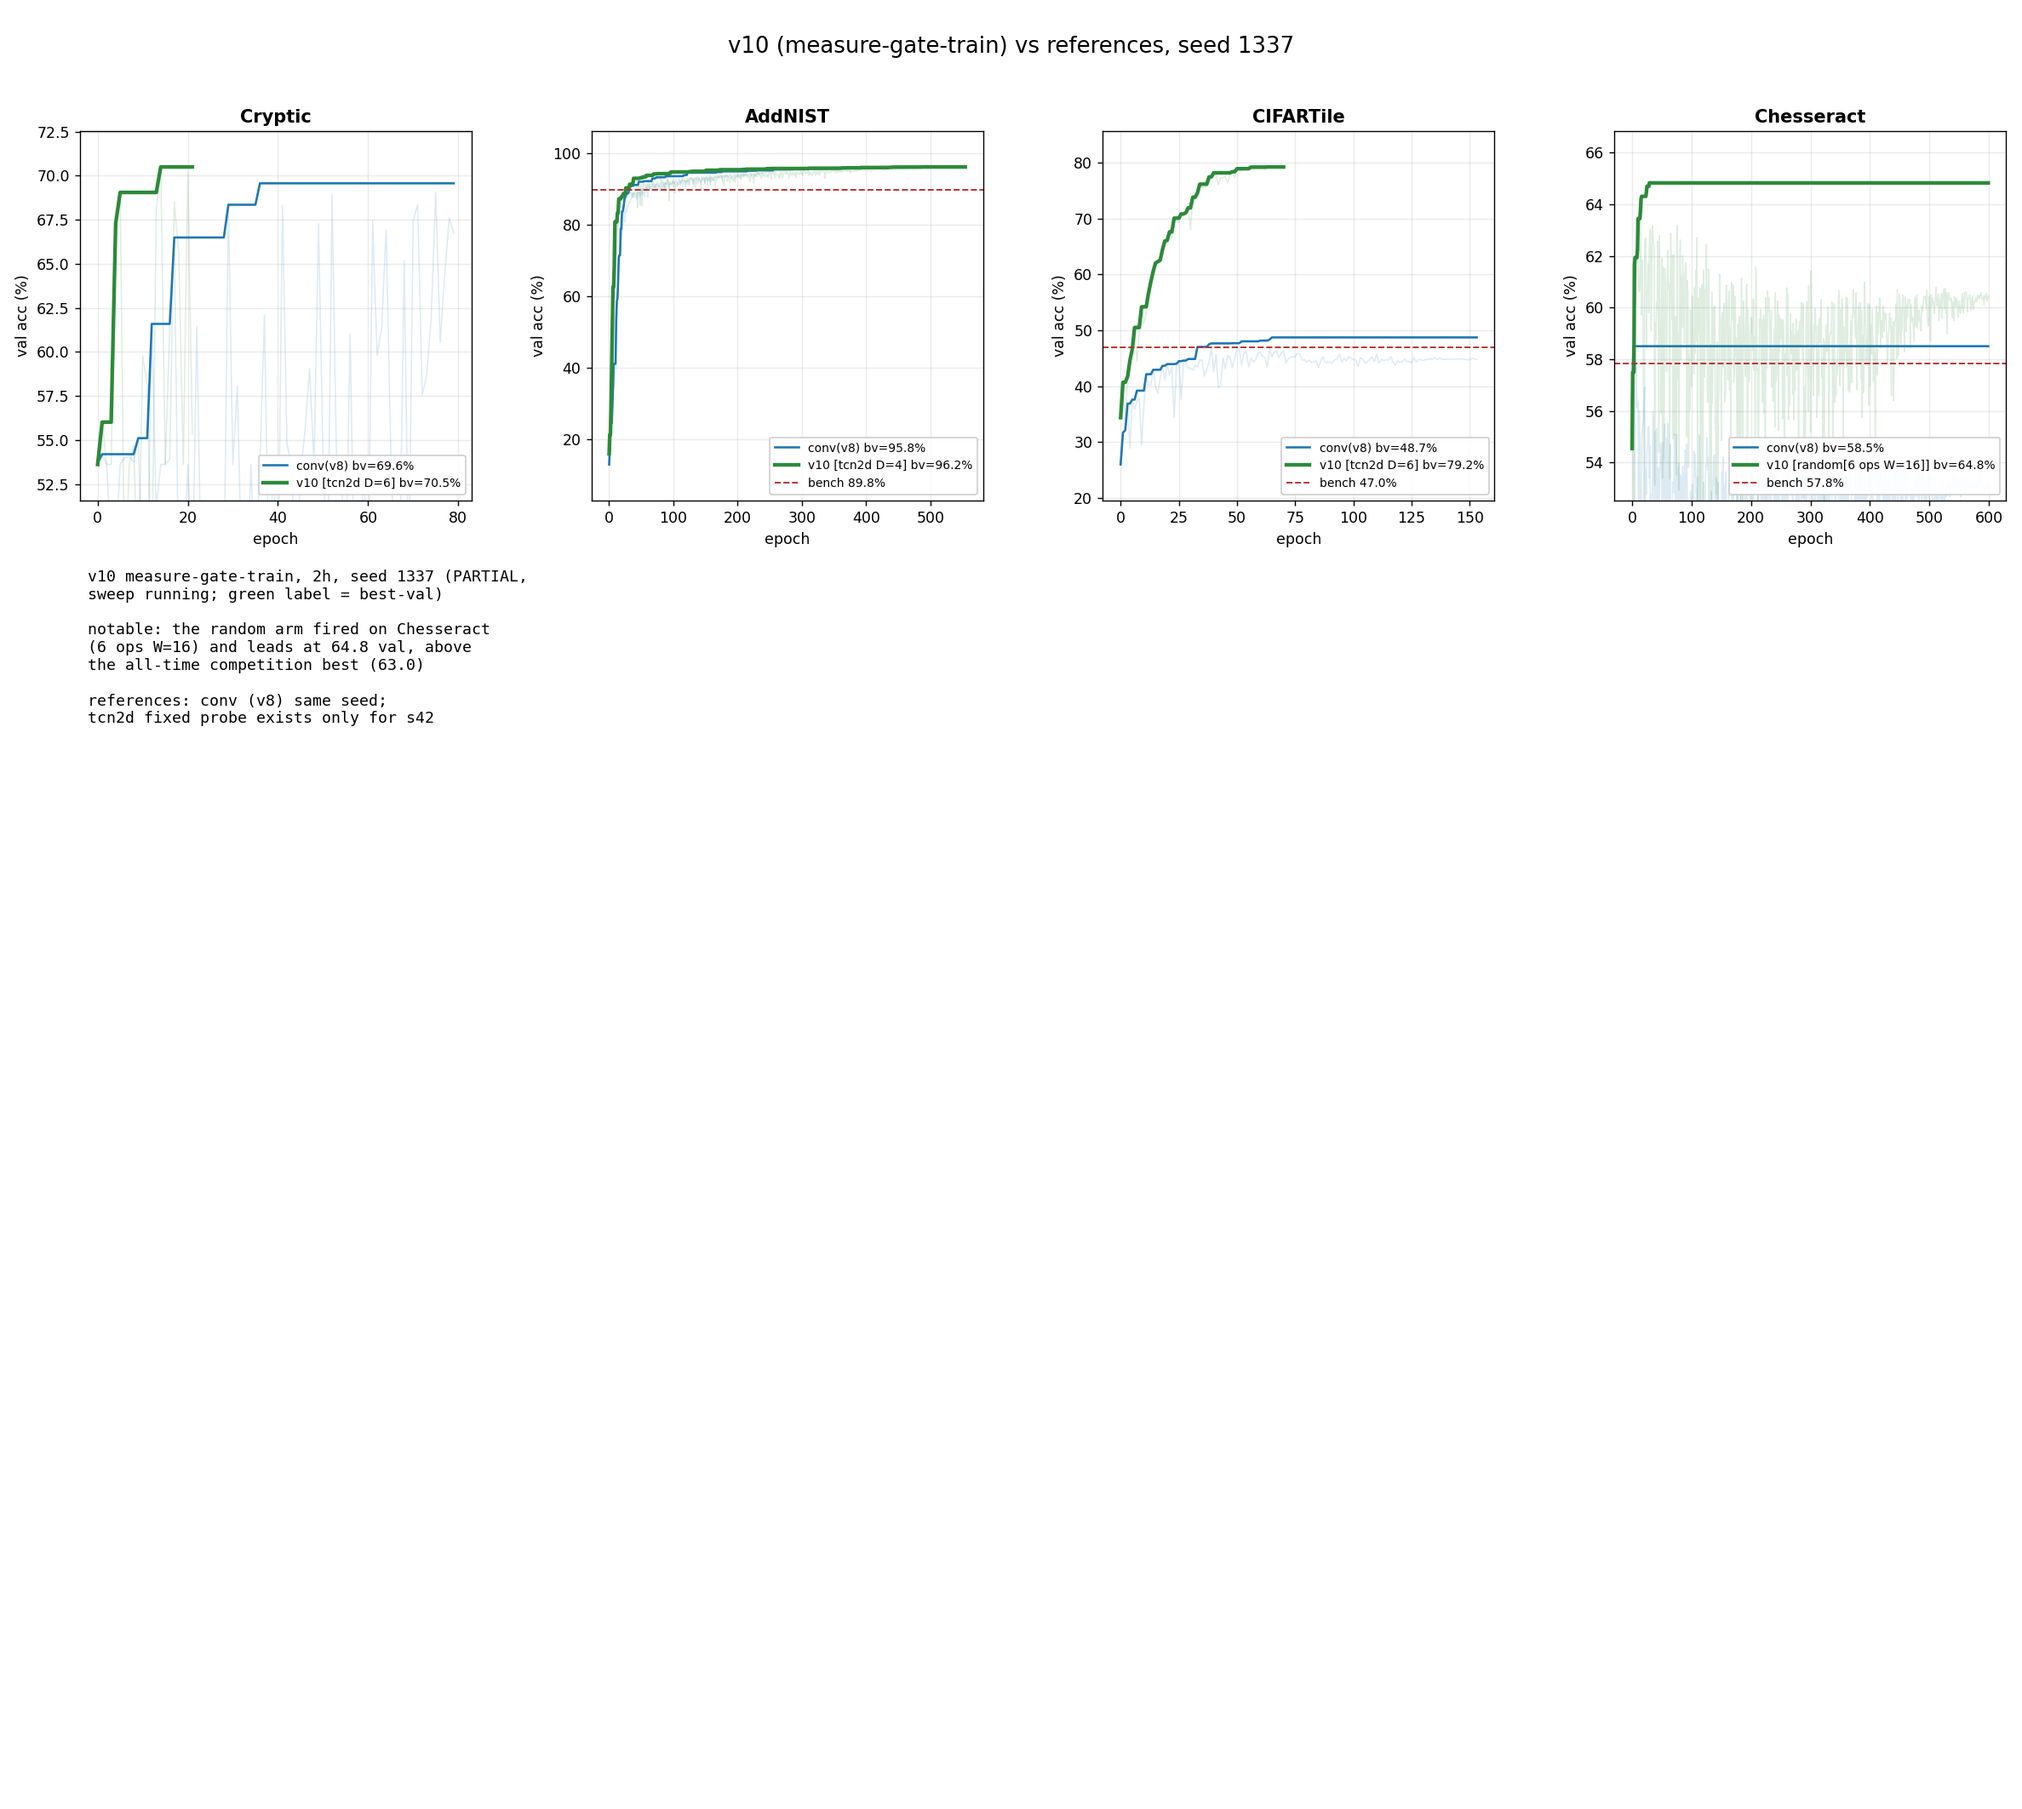
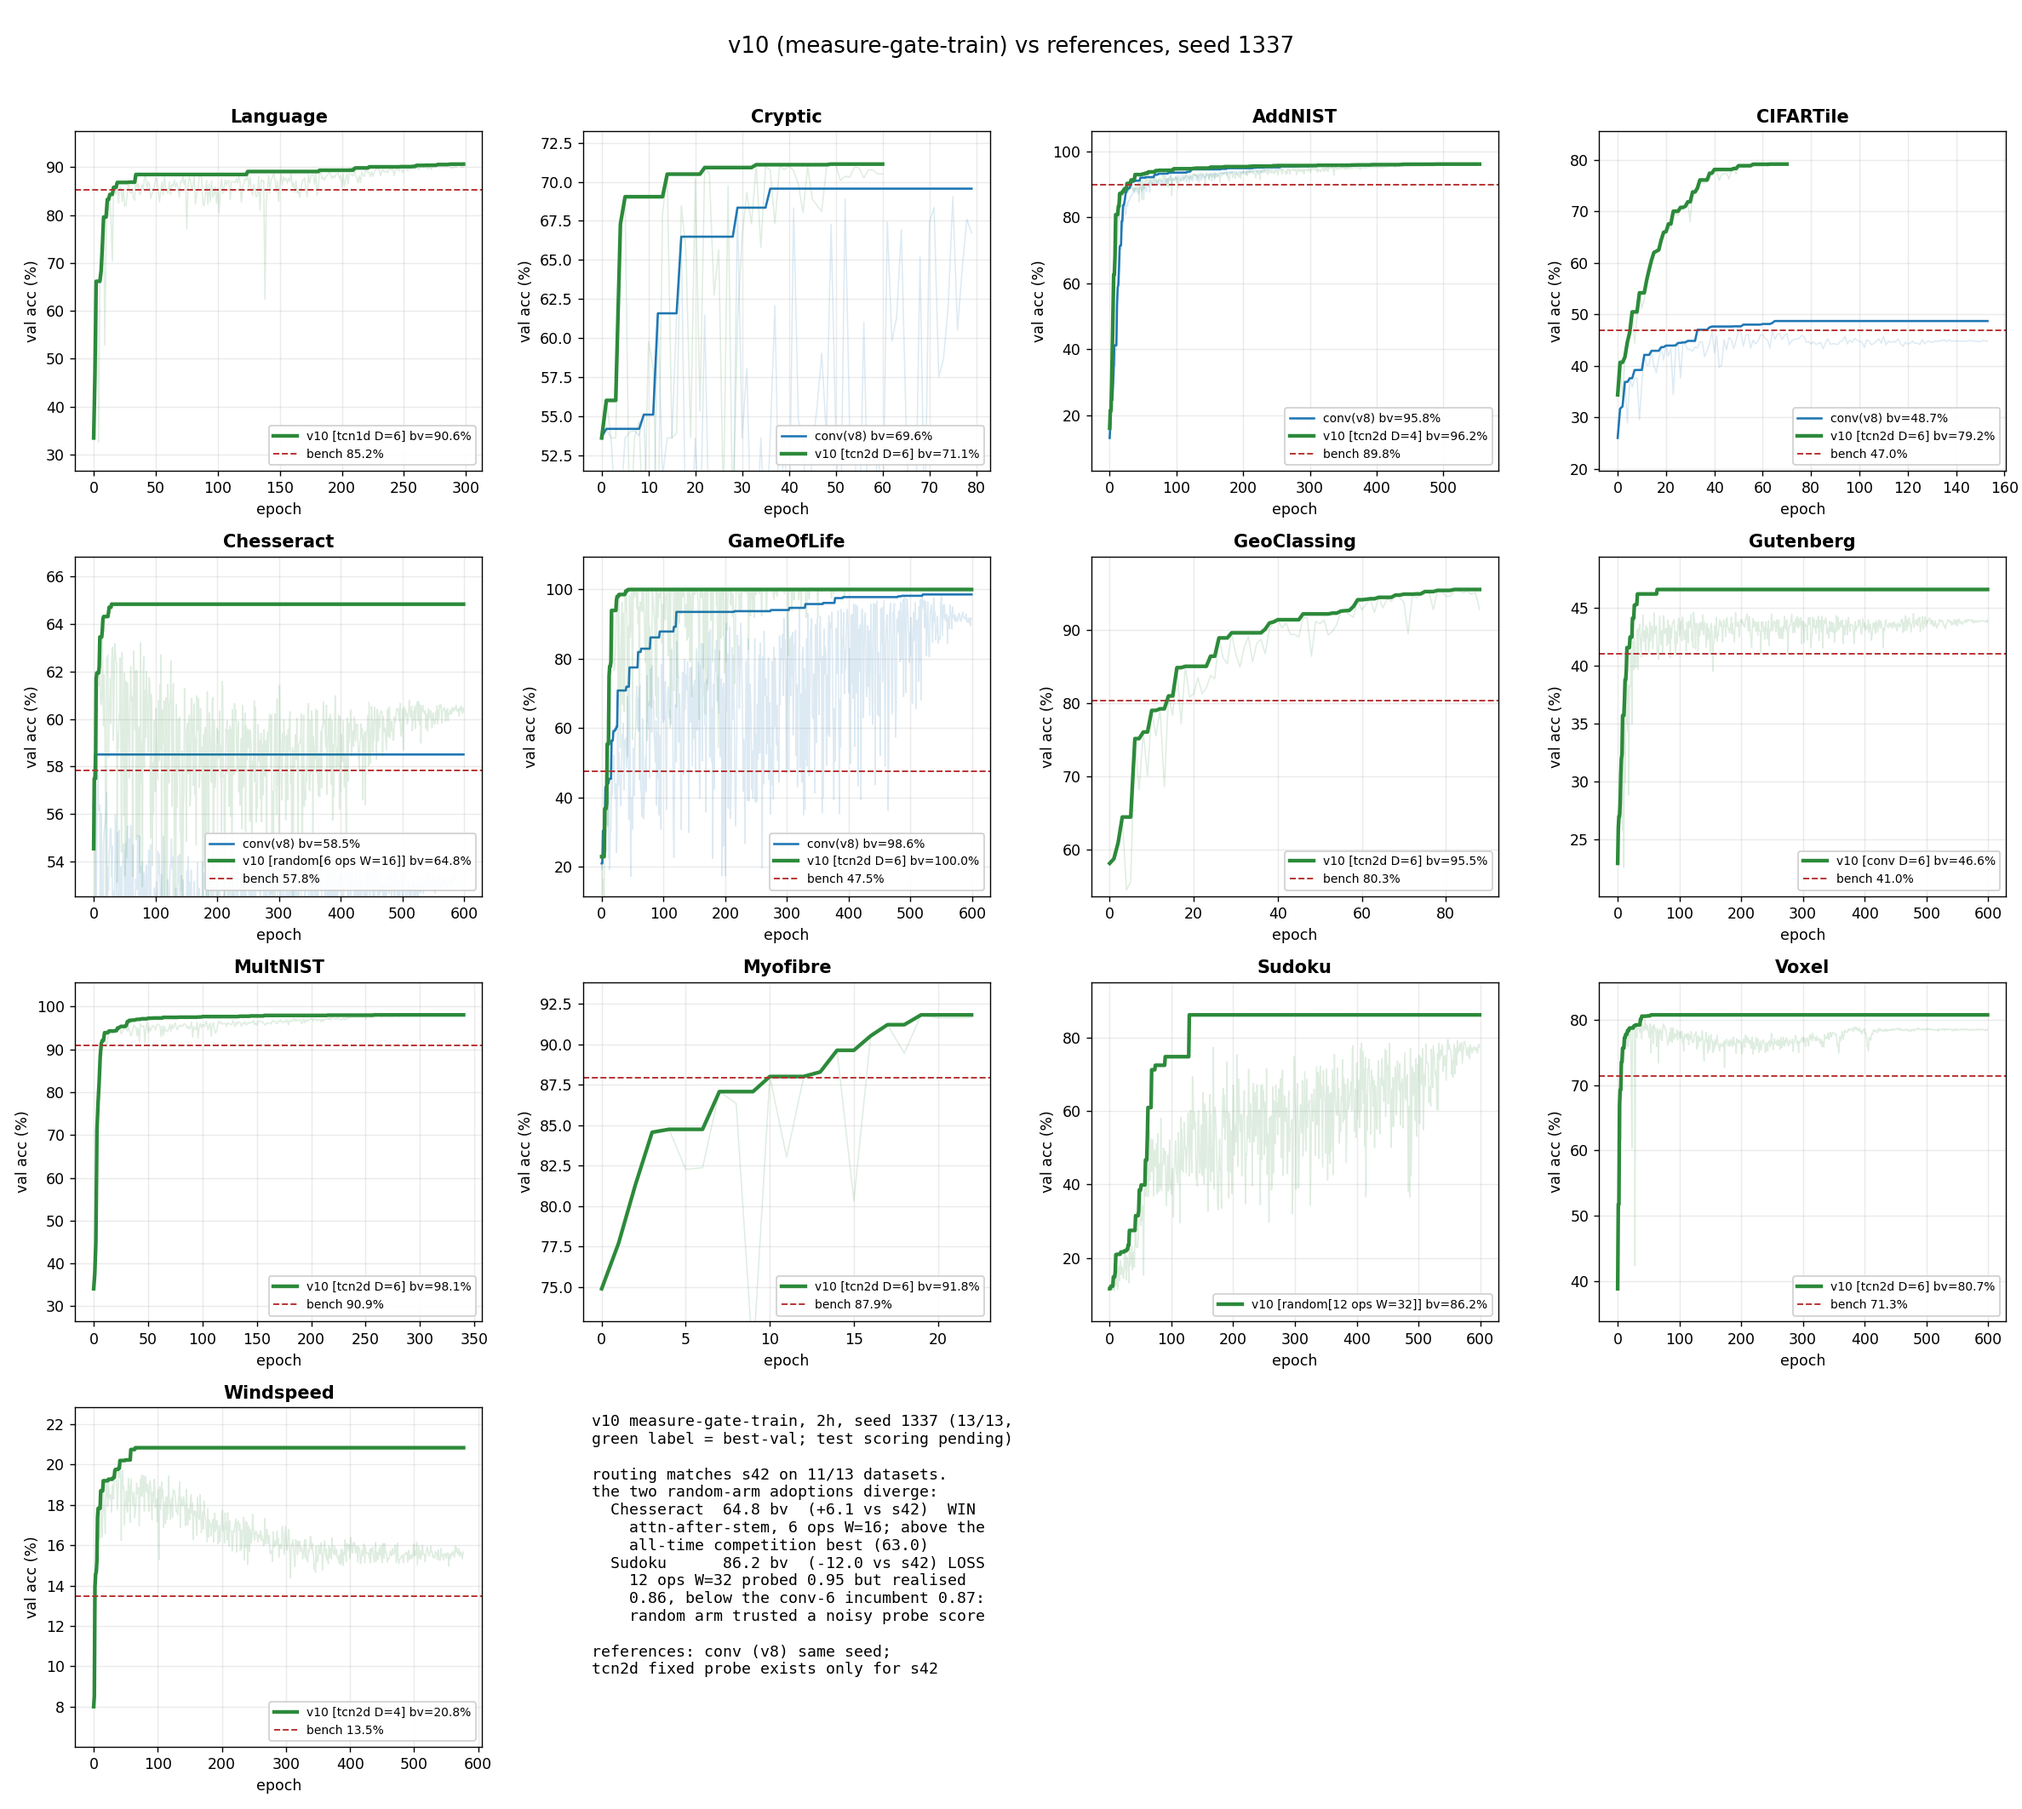
v10 sweep: s1337 complete (13/13); curves grids refreshed. Ledger: random arm regressed Sudoku s1337 (-12, unverified probe), flagged HIGH PRIORITY re-train verification fix

diff --git a/dev/plot_v10_grid.py b/dev/plot_v10_grid.py
@@ -51,11 +51,17 @@ SUMMARY = {
            "  conv (v8)     +48.2\n"
            "  tcn2d fixed   +59.2\n"
            "  v10           +62.49  (all-time best)"),
-    "1337": ("v10 measure-gate-train, 2h, seed 1337 (PARTIAL,\n"
-             "sweep running; green label = best-val)\n\n"
-             "notable: the random arm fired on Chesseract\n"
-             "(6 ops W=16) and leads at 64.8 val, above\n"
-             "the all-time competition best (63.0)\n\n"
+    "1337": ("v10 measure-gate-train, 2h, seed 1337 (13/13,\n"
+             "green label = best-val; test scoring pending)\n\n"
+             "routing matches s42 on 11/13 datasets.\n"
+             "the two random-arm adoptions diverge:\n"
+             "  Chesseract  64.8 bv  (+6.1 vs s42)  WIN\n"
+             "    attn-after-stem, 6 ops W=16; above the\n"
+             "    all-time competition best (63.0)\n"
+             "  Sudoku      86.2 bv  (-12.0 vs s42) LOSS\n"
+             "    12 ops W=32 probed 0.95 but realised\n"
+             "    0.86, below the conv-6 incumbent 0.87:\n"
+             "    random arm trusted a noisy probe score\n\n"
              "references: conv (v8) same seed;\n"
              "tcn2d fixed probe exists only for s42"),
 }

diff --git a/docs/notes/09 - Implementation/implementation/pipeline/Pipeline v10 - Design + Idea Ledger.md b/docs/notes/09 - Implementation/implementation/pipeline/Pipeline v10 - Design + Idea Ledger.md
@@ -266,5 +266,7 @@ The TCN excursion's meta-lesson: one different architecture family was worth +11
 2. **MLP-Mixer-style nets:** no spatial prior at all; plausible exactly on encoded data where locality is meaningless (corr1 ≈ 0).
 3. **ConvNeXt-style modernized conv block:** a stronger image default; tests whether our plain conv arm undersells the conv family.
 4. **Wide random-graph nets (RandWire-flavored):** ties into the random arm; for the Chesseract-type inputs where wide random sampling already wins.
-5. **SpatialSelfAttn2D as a gated candidate on board-like encoded data (added 2026-06-12):** the v10 random arm is 2-for-2 on adoptions that beat the gated default, and both winners are board-logic datasets: Sudoku s42 (97.70 test, +3.2 over the conv incumbent) and Chesseract s1337 (64.8 val, above the all-time competition best 63.0). The s1337 Chesseract winner is the only sampled arch with self-attention directly after the stem (Identity, SpatialSelfAttn2D, MaxPool, MaxPool, Conv3, Conv5, W=16); piece/cell interactions on a board are non-local, which is exactly what attention buys over convs on an 8x8 grid. Promotion path: run the family admission gauntlet on a small attn-after-stem template (encoded route only, corr1 < 0.2 with small spatial dims), so the win stops depending on the random arm sampling it by luck.
+5. **SpatialSelfAttn2D as a gated candidate on board-like encoded data (added 2026-06-12):** attention-after-stem keeps winning on Chesseract. The s1337 Chesseract adoption (64.8 val, +6.1 over s42, above the all-time competition best 63.0) is the only sampled arch with self-attention directly after the stem (Identity, SpatialSelfAttn2D, MaxPool, MaxPool, Conv3, Conv5, W=16); piece interactions on a board are non-local, which is exactly what attention buys over convs on an 8x8 grid. Promotion path: run the family admission gauntlet on a small attn-after-stem template (encoded route only, corr1 < 0.2 with small spatial dims), so the win stops depending on the random arm sampling it by luck. NOTE: do not over-read "board games love attention" -- see item 6, the same random arm REGRESSED Sudoku on s1337.
 Protocol: fixed-arch probe x 13 datasets x seed 42 (the TCN excursion recipe), then the gate decides deployment. ViT-style attention stays deprioritized: data-hungry at our scale and attention already failed on Language (84.8). Note the distinction with shortlist item 5: a single lightweight attention layer inside a tiny W=16 net on an 8x8 board is a different regime from a full attention backbone on sequence data.
+
+6. **HIGH PRIORITY -- give the random arm re-train verification (found in the s1337 sweep, 2026-06-12).** Confirmed regression: on Sudoku s1337 the random arm adopted a 12-op W=32 net whose short probe scored 0.95, but at full train-to-budget it realised only 86.2 best-val, BELOW the conv-6 incumbent (probe 0.871, and s42's conv-8 realised ~98). Net cost roughly -12 points on that dataset versus simply keeping the incumbent. Root cause confirmed in `baselines/v10/nas.py:357`: the random arm adopts on a single short-probe score (`v > best_r + 2*noise`) with NO re-train verification, whereas the depth search (`nas.py:319-328`) re-trains the challenger fresh at a longer horizon before trusting it (that guard fires 13 times in v9 s42 and was added precisely to cure this failure mode). The random arm is the last unverified adoption in the pipeline. Fix: re-train the single best random sample fresh, longer horizon, and adopt only if it still beats the incumbent by > noise -- the exact pattern depth search already uses. Caution on tuning: the verification slice has to come out of RAND_FRAC so the final train-to-budget is not shortened. This is the difference between the random arm being a pure upside option (Chesseract +6) and a coin-flip (Sudoku -12); with verification it should keep the wins and drop the losses. Validate by replaying Sudoku/Chesseract s1337 with the verified arm before the next full sweep.
